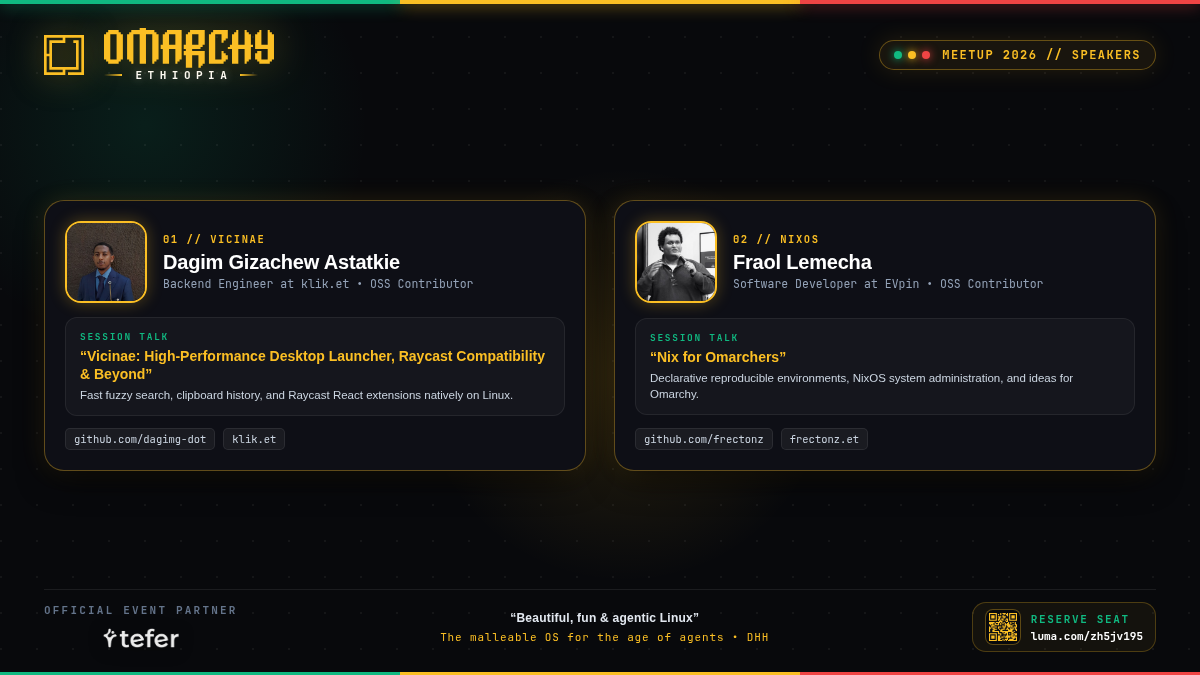
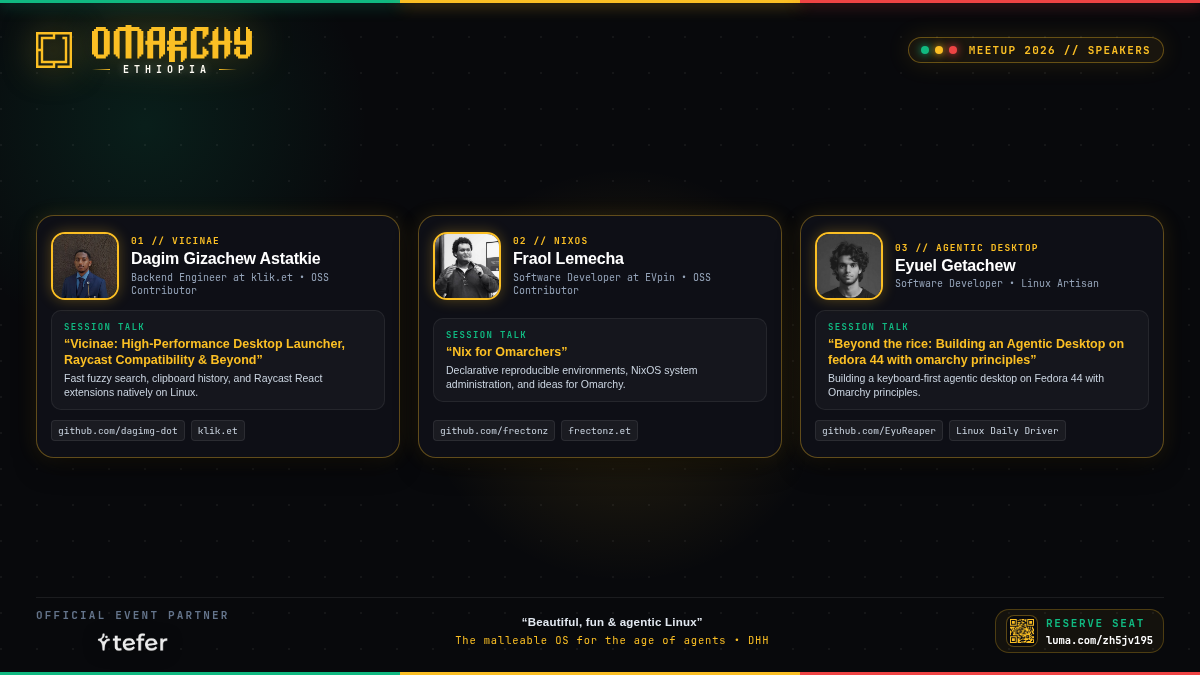
feat(media): add Eyuel Getachew graphics and update 3-speaker lineups

diff --git a/app/meetup/graphics/page.tsx b/app/meetup/graphics/page.tsx
@@ -52,10 +52,30 @@ const graphics = [
     aspect: "aspect-[16/9]",
   },
   {
+    id: "eyuel-square",
+    title: "Eyuel Getachew — Square (1:1)",
+    speaker: "Eyuel Getachew",
+    talk: "Beyond the rice: Building an Agentic Desktop on fedora 44 with omarchy principles",
+    format: "1200 × 1200 px (Square)",
+    bestFor: "Instagram, Twitter Feed, LinkedIn, Telegram",
+    src: "/assets/graphics/speaker-eyuel-getachew-square.png",
+    aspect: "aspect-square",
+  },
+  {
+    id: "eyuel-landscape",
+    title: "Eyuel Getachew — Landscape (16:9)",
+    speaker: "Eyuel Getachew",
+    talk: "Beyond the rice: Building an Agentic Desktop on fedora 44 with omarchy principles",
+    format: "1200 × 675 px (16:9)",
+    bestFor: "Twitter Card, LinkedIn Banner, Presentation Title",
+    src: "/assets/graphics/speaker-eyuel-getachew-landscape.png",
+    aspect: "aspect-[16/9]",
+  },
+  {
     id: "lineup-square",
-    title: "Dual Speaker Lineup — Square (1:1)",
-    speaker: "Dagim Gizachew & Fraol Lemecha",
-    talk: "Meet The Speakers Announcement",
+    title: "Featured Speakers Lineup — Square (1:1)",
+    speaker: "Dagim Gizachew, Fraol Lemecha & Eyuel Getachew",
+    talk: "All Featured Speakers Announcement",
     format: "1200 × 1200 px (Square)",
     bestFor: "Community announcements, Instagram, Telegram",
     src: "/assets/graphics/meetup-speakers-lineup-square.png",
@@ -63,9 +83,9 @@ const graphics = [
   },
   {
     id: "lineup-landscape",
-    title: "Dual Speaker Lineup — Landscape (16:9)",
-    speaker: "Dagim Gizachew & Fraol Lemecha",
-    talk: "Meet The Speakers Announcement",
+    title: "Featured Speakers Lineup — Landscape (16:9)",
+    speaker: "Dagim Gizachew, Fraol Lemecha & Eyuel Getachew",
+    talk: "All Featured Speakers Announcement",
     format: "1200 × 675 px (16:9)",
     bestFor: "Twitter Header, LinkedIn Landscape Post",
     src: "/assets/graphics/meetup-speakers-lineup-landscape.png",
